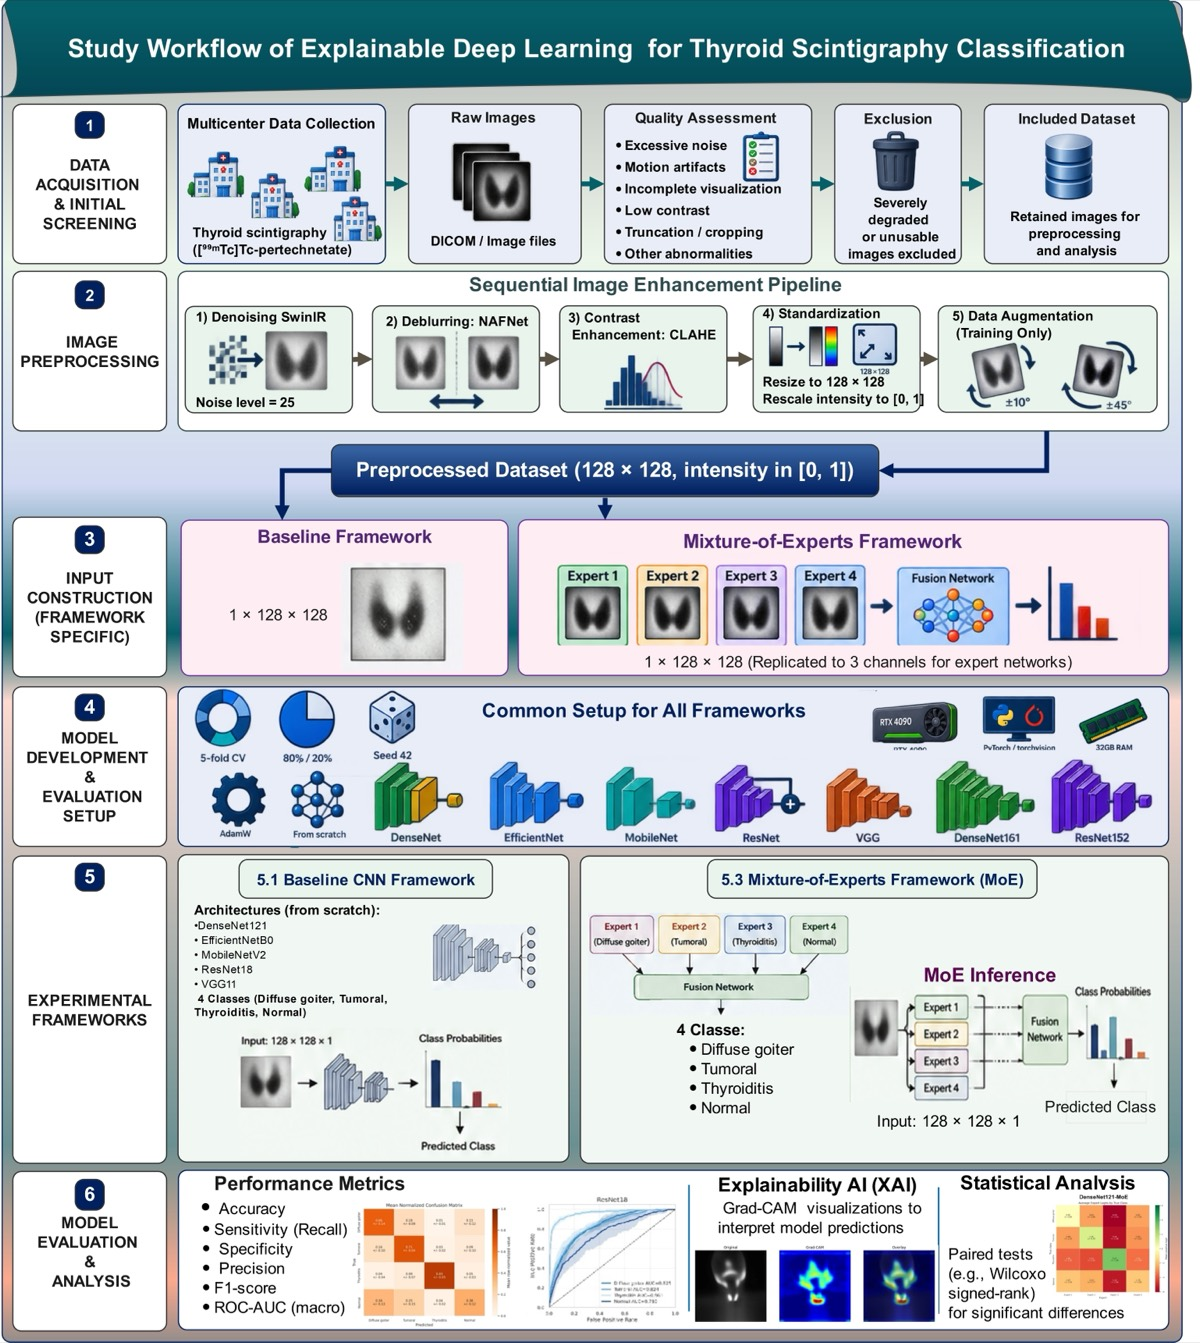
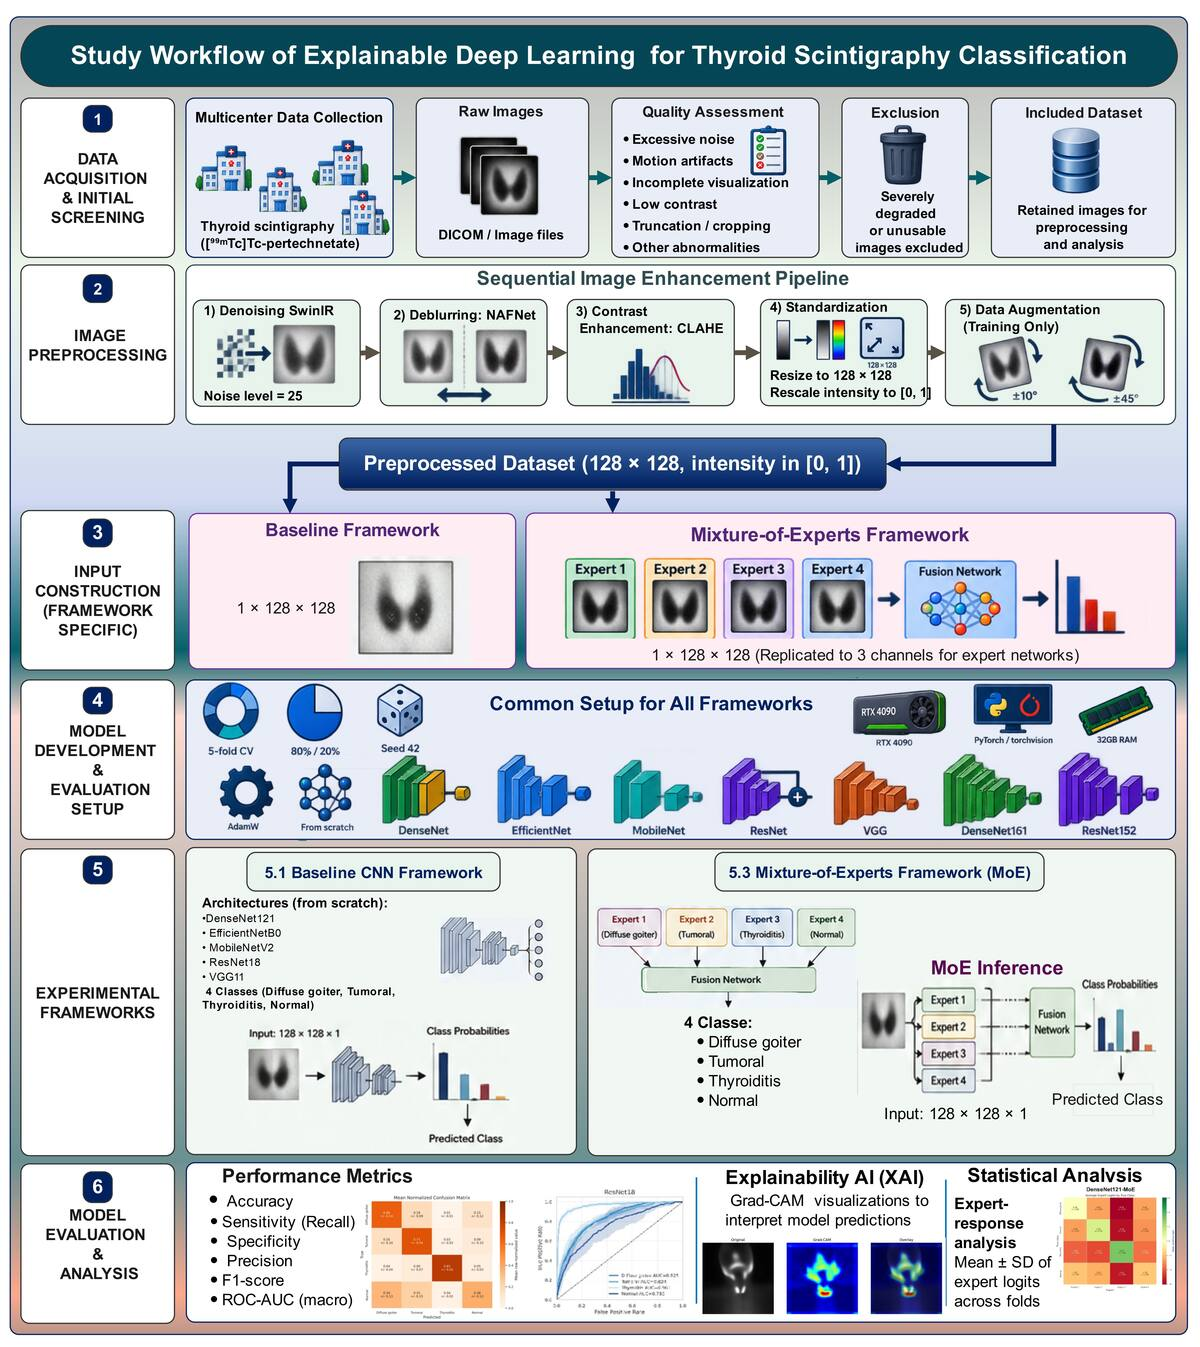
Downsize Figure 1 to the 1600 px web copy and refresh the social card
The updated Figure 1 had been committed at full submission resolution
(6159x6911, 3.9 MB), which is the page's hero image. It is now resampled to
1600 px wide at quality 68, matching the other web figures, and og-preview.jpg
is regenerated from the same source at 1200 px. The card is one pixel taller
than before, so og:image:height was updated to 1347.

diff --git a/index.html b/index.html
@@ -18,7 +18,7 @@
 <meta property="og:url" content="./">
 <meta property="og:image" content="./static/images/og-preview.jpg">
 <meta property="og:image:width" content="1200">
-<meta property="og:image:height" content="1343">
+<meta property="og:image:height" content="1347">
 
 <!-- Twitter -->
 <meta name="twitter:card" content="summary_large_image">
